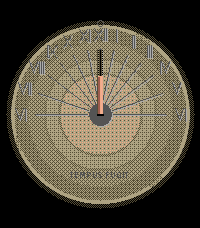
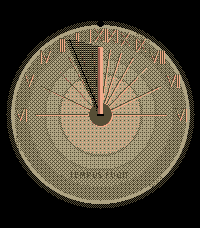
step 6.1: AppMessage location intake
pebble send-app-message --int/--uint are variadic per flag; repeated
flags overwrite earlier ones (both keys go in one flag).

diff --git a/src/c/main.c b/src/c/main.c
@@ -1,5 +1,7 @@
 #include <pebble.h>
 #include "dial.h"
+#include "location.h"
+#include "persist.h"
 #include "render.h"
 #include "solar.h"
 #include "sundial.h"
@@ -10,7 +12,7 @@ static Layer *s_layer;
 static Dial s_dial;
 static SolarState s_solar;
 static Vec3q16 s_sun;
-static Location s_loc = {514779, -15, 0, false};  /* Greenwich until phase 6 */
+static Location s_loc = {514779, -15, 0, false};  /* default Greenwich */
 
 static void redraw(void) {
   solar_state(time(NULL), s_loc.lon_e4, &s_solar);
@@ -22,6 +24,36 @@ static void redraw(void) {
 static void tick_handler(struct tm *tick_time, TimeUnits units) {
   (void)tick_time;
   (void)units;
+  redraw();
+}
+
+static void request_location(void) {
+  DictionaryIterator *iter;
+  if (app_message_outbox_begin(&iter) == APP_MSG_OK) {
+    dict_write_uint8(iter, MESSAGE_KEY_REQUEST_LOCATION, 1);
+    app_message_outbox_send();
+  }
+}
+
+static void inbox_received(DictionaryIterator *iter, void *context) {
+  (void)context;
+  Tuple *lat = dict_find(iter, MESSAGE_KEY_LAT_E4);
+  Tuple *lon = dict_find(iter, MESSAGE_KEY_LON_E4);
+  Tuple *src = dict_find(iter, MESSAGE_KEY_LOCATION_SOURCE);
+  if (!lat || !lon) { APP_LOG(APP_LOG_LEVEL_INFO, "inbox: no lat/lon"); return; }
+  if (!location_valid(lat->value->int32, lon->value->int32)) {
+    APP_LOG(APP_LOG_LEVEL_INFO, "inbox: invalid %d %d",
+            (int)lat->value->int32, (int)lon->value->int32);
+    return;
+  }
+  APP_LOG(APP_LOG_LEVEL_INFO, "inbox: lat %d lon %d",
+          (int)lat->value->int32, (int)lon->value->int32);
+
+  s_loc.lat_e4 = lat->value->int32;
+  s_loc.lon_e4 = lon->value->int32;
+  s_loc.source = src ? src->value->uint8 : 0;
+  s_loc.valid = true;
+  persist_location_save(&s_loc);
   redraw();
 }
 
@@ -50,7 +82,20 @@ static void init(void) {
     .unload = window_unload,
   });
   window_stack_push(s_window, true);
+
+  /* Load persisted location; fall back to Greenwich default. */
+  if (!persist_location_load(&s_loc)) {
+    s_loc.lat_e4 = 514779;
+    s_loc.lon_e4 = -15;
+    s_loc.source = 0;
+    s_loc.valid = false;
+  }
+
   tick_timer_service_subscribe(MINUTE_UNIT, tick_handler);
+
+  app_message_register_inbox_received(inbox_received);
+  app_message_open(128, 128);
+  request_location();
 }
 
 static void deinit(void) {

diff --git a/src/c/persist.c b/src/c/persist.c
@@ -1,0 +1,25 @@
+#include "persist.h"
+
+#define PERSIST_KEY_LAT    0x10
+#define PERSIST_KEY_LON    0x11
+#define PERSIST_KEY_SRC    0x12
+#define PERSIST_KEY_VALID  0x13
+
+void persist_location_save(const Location *loc) {
+  persist_write_int(PERSIST_KEY_LAT, loc->lat_e4);
+  persist_write_int(PERSIST_KEY_LON, loc->lon_e4);
+  persist_write_int(PERSIST_KEY_SRC, loc->source);
+  persist_write_bool(PERSIST_KEY_VALID, loc->valid);
+}
+
+bool persist_location_load(Location *loc) {
+  if (!persist_exists(PERSIST_KEY_LAT) || !persist_exists(PERSIST_KEY_LON)) {
+    return false;
+  }
+  loc->lat_e4 = persist_read_int(PERSIST_KEY_LAT);
+  loc->lon_e4 = persist_read_int(PERSIST_KEY_LON);
+  loc->source = persist_exists(PERSIST_KEY_SRC)
+    ? (uint8_t)persist_read_int(PERSIST_KEY_SRC) : 0;
+  loc->valid = persist_read_bool(PERSIST_KEY_VALID);
+  return true;
+}

diff --git a/src/c/persist.h b/src/c/persist.h
@@ -1,0 +1,12 @@
+#ifndef SUNDIAL_PERSIST_H
+#define SUNDIAL_PERSIST_H
+
+#include "sundial.h"
+
+/* Save the current location to persistent storage. */
+void persist_location_save(const Location *loc);
+
+/* Load location from persistent storage; sets *loc. Returns true on success. */
+bool persist_location_load(Location *loc);
+
+#endif
